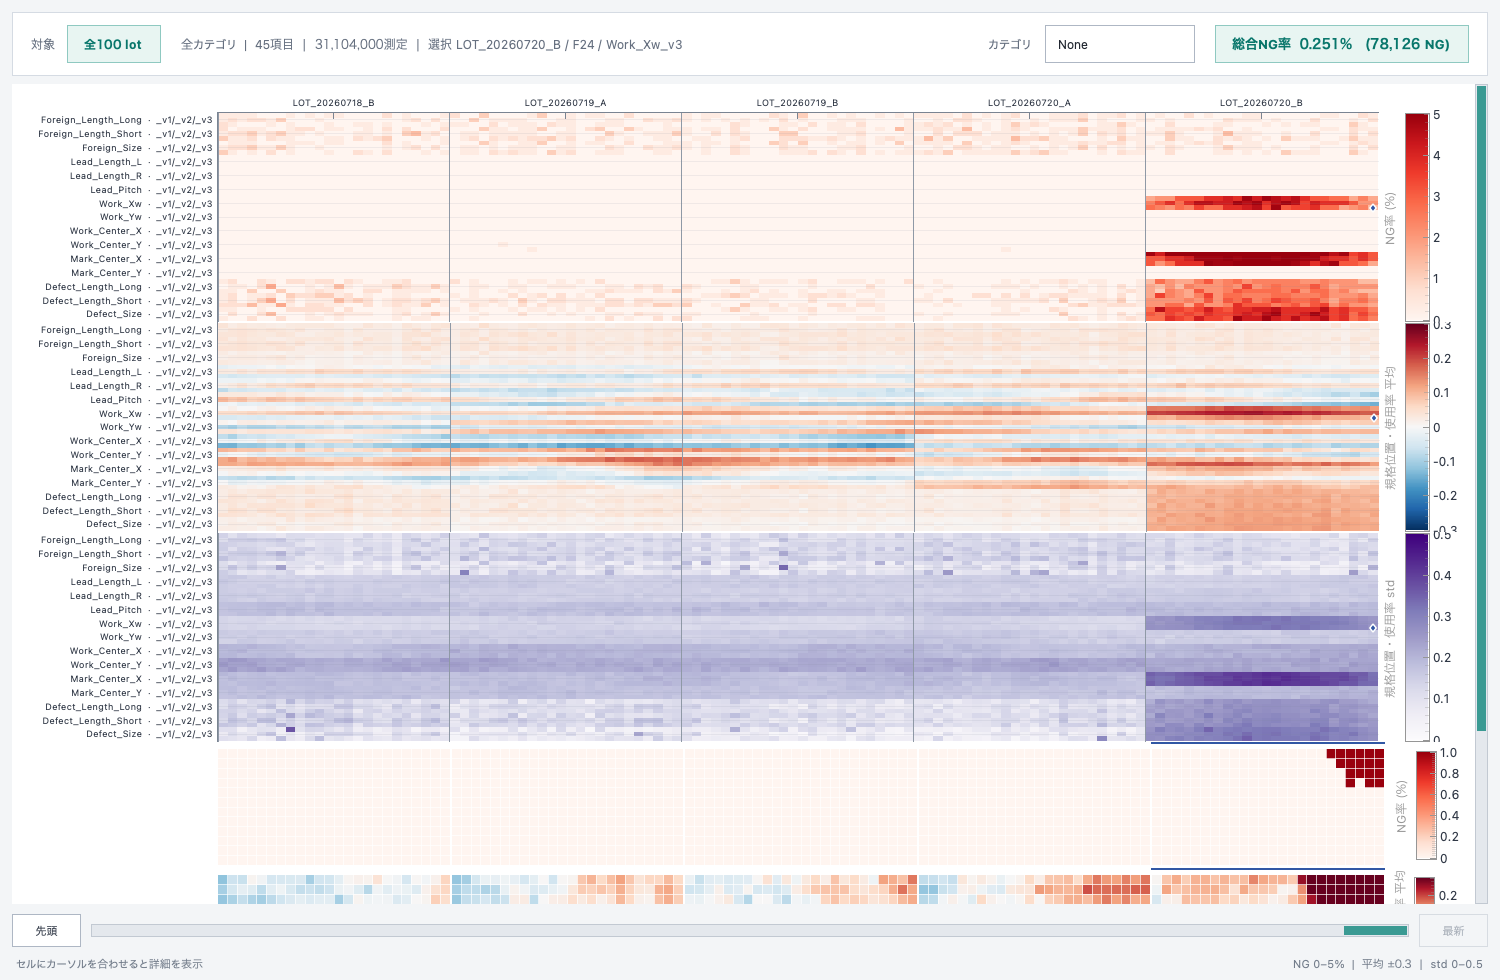
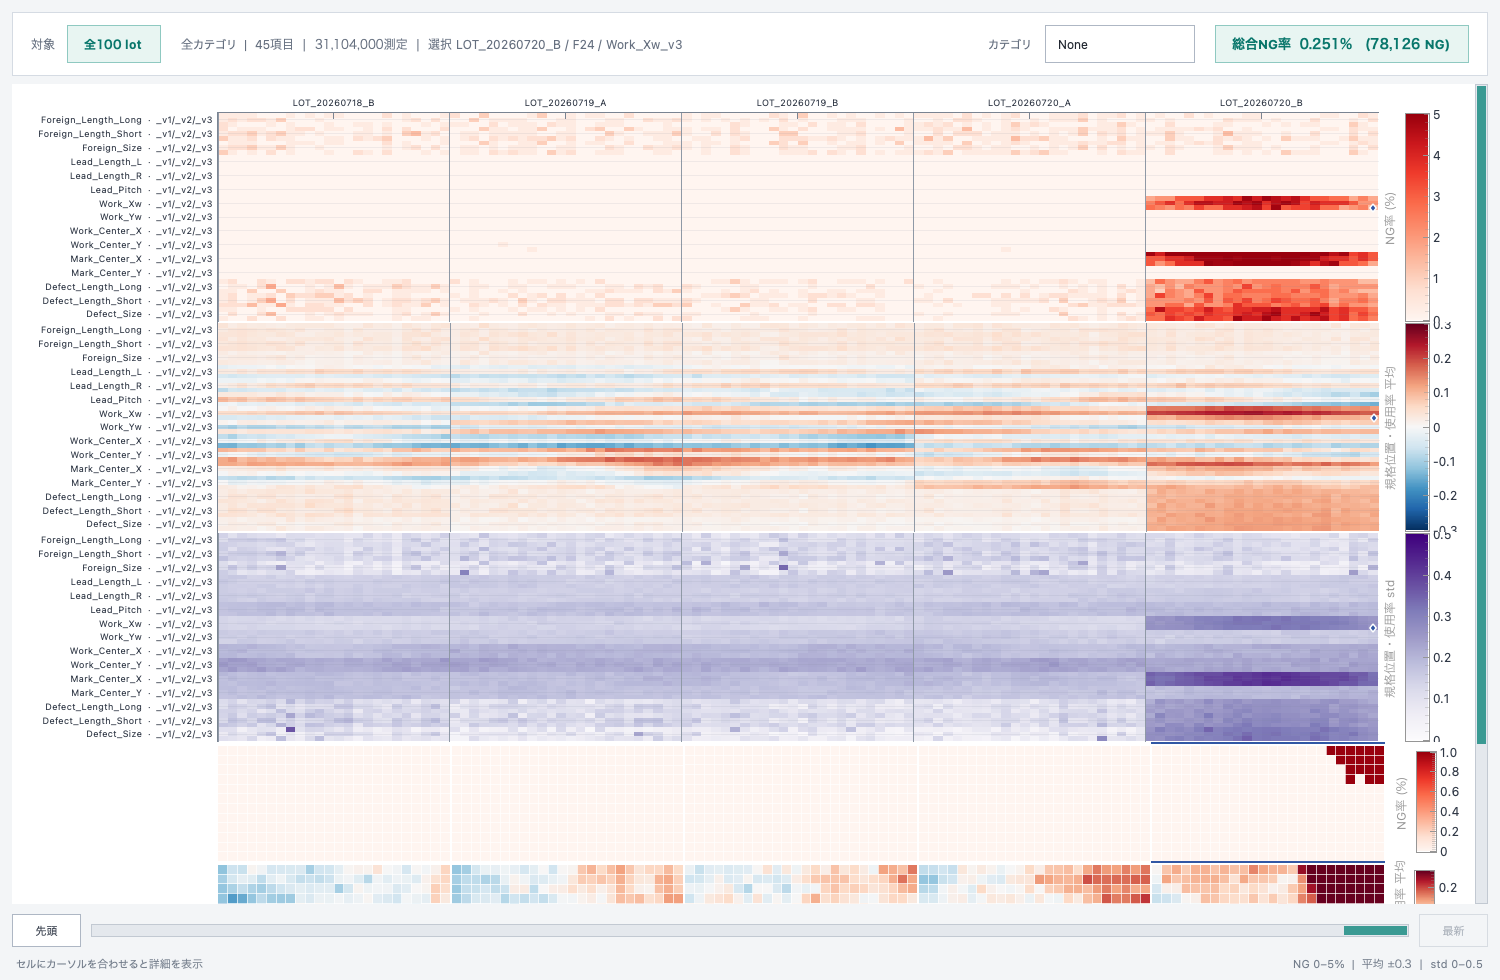
📝

diff --git a/src/analysis/frame_map.py b/src/analysis/frame_map.py
@@ -19,6 +19,11 @@ from src.standardized.quality_data import QualityRepository
 POSITION_X = np.arange(1, 25)
 POSITION_Y = np.arange(1, 13)
 VISIBLE_LOTS = 5
+LEFT_LABEL_WIDTH = 205
+COLOR_BAR_WIDTH = 90
+DEFAULT_ROW_HEIGHT = 126
+MIN_ROW_HEIGHT = 112
+MAX_ROW_HEIGHT = 180
 
 
 @dataclass(frozen=True)
@@ -128,12 +133,19 @@ class FrameMapWidget(QtWidgets.QWidget):
         self.data = build_frame_map_data(repository, lot_numbers)
         self.rows: list[FrameMapRow] = []
         self.selected_colname: str | None = None
+        self._row_height = DEFAULT_ROW_HEIGHT
+        self.setSizePolicy(
+            QtWidgets.QSizePolicy.Policy.Expanding,
+            QtWidgets.QSizePolicy.Policy.Fixed,
+        )
         self._build_ui()
+        self._set_row_height(DEFAULT_ROW_HEIGHT)
 
     def _build_ui(self) -> None:
         layout = QtWidgets.QVBoxLayout(self)
         layout.setContentsMargins(0, 0, 0, 0)
         layout.setSpacing(0)
+        layout.setAlignment(QtCore.Qt.AlignmentFlag.AlignTop)
         for metric, label, colors in MAP_DEFINITIONS:
             row = self._build_row(
                 metric,
@@ -152,13 +164,13 @@ class FrameMapWidget(QtWidgets.QWidget):
         """表示中5 lotのPositionマップ行生成。"""
         widget = QtWidgets.QWidget()
         widget.setObjectName("frameMapRow")
-        widget.setFixedHeight(126)
+        widget.setFixedHeight(self._row_height)
         layout = QtWidgets.QHBoxLayout(widget)
         layout.setContentsMargins(0, 0, 0, 0)
         layout.setSpacing(0)
 
         left_spacer = QtWidgets.QWidget()
-        left_spacer.setFixedWidth(205)
+        left_spacer.setFixedWidth(LEFT_LABEL_WIDTH)
         layout.addWidget(left_spacer)
 
         plot_widgets = []
@@ -185,7 +197,7 @@ class FrameMapWidget(QtWidgets.QWidget):
 
         legend = pg.GraphicsLayoutWidget()
         legend.setBackground("#ffffff")
-        legend.setFixedWidth(90)
+        legend.setFixedWidth(COLOR_BAR_WIDTH)
         color_bar = pg.ColorBarItem(
             values=(0.0, 1.0),
             width=18,
@@ -209,6 +221,24 @@ class FrameMapWidget(QtWidgets.QWidget):
             image_items=image_items,
             color_bar=color_bar,
         )
+
+    def resizeEvent(self, event: object) -> None:
+        """表示幅に合わせたフレームマップ高の更新。"""
+        super().resizeEvent(event)
+        map_width = (
+            self.width() - LEFT_LABEL_WIDTH - COLOR_BAR_WIDTH
+        ) / VISIBLE_LOTS
+        row_height = round(map_width / 2.0) + 2
+        self._set_row_height(
+            max(MIN_ROW_HEIGHT, min(MAX_ROW_HEIGHT, row_height))
+        )
+
+    def _set_row_height(self, height: int) -> None:
+        """24×12セルの縦横比を保つ行高設定。"""
+        self._row_height = height
+        for row in self.rows:
+            row.widget.setFixedHeight(height)
+        self.setFixedHeight(height * len(self.rows))
 
     @staticmethod
     def _add_white_grid(plot_item: pg.PlotItem) -> None:

diff --git a/tests/test_dashboard.py b/tests/test_dashboard.py
@@ -299,3 +299,23 @@ def test_dashboard_window(qtbot, repository: QualityRepository) -> None:
         fq_map.frame_map.rows[0].image_items[0].image,
         fq_map.frame_map.data.ng_rates[0, 95],
     )
+
+    window.resize(1_883, 1_377)
+    qtbot.wait(100)
+    row_rects = [
+        row.widget.geometry()
+        for row in fq_map.frame_map.rows
+    ]
+    assert row_rects[0].top() == 0
+    assert all(
+        current.top() == previous.bottom() + 1
+        for previous, current in zip(row_rects, row_rects[1:])
+    )
+    assert fq_map.frame_map.height() == sum(
+        rectangle.height() for rectangle in row_rects
+    )
+    first_plot = fq_map.frame_map.rows[0].plot_widgets[0]
+    assert first_plot.width() / first_plot.height() == pytest.approx(
+        2.0,
+        abs=0.03,
+    )

diff --git a/src/analysis/fq_map.py b/src/analysis/fq_map.py
@@ -263,6 +263,7 @@ class FqMapWidget(QtWidgets.QWidget):
         plots_layout = QtWidgets.QVBoxLayout(self.plots_container)
         plots_layout.setContentsMargins(0, 0, 0, 0)
         plots_layout.setSpacing(0)
+        plots_layout.setAlignment(QtCore.Qt.AlignmentFlag.AlignTop)
 
         for metric, label, colors in MAP_DEFINITIONS:
             view = self._build_fq_map_view(

diff --git a/concept.md b/concept.md
@@ -160,7 +160,7 @@ FQマップの下には、選択したセルの行に対応するvision別検査
 2. `spec_position`または`spec_usage`の平均（RdBu_r相当）
 3. `spec_position`または`spec_usage`の母標準偏差（Purples相当）
 
-フレームマップは1ロット内の24フレームを製品座標ごとに集計し、FQマップと同じ横スクロール位置の5ロットを並べる。各製品セルの境界には白いグリッド線を表示する。3種類のどのFQマップをクリックしても、ダイヤ型の選択マーカーとフレームマップ対象項目を同期する。選択ロットはフレームマップ上端の細いインディゴ線で控えめに示す。
+フレームマップは1ロット内の24フレームを製品座標ごとに集計し、FQマップと同じ横スクロール位置の5ロットを並べる。各製品セルの境界には白いグリッド線を表示する。ウィンドウ幅に応じて行高を計算し、24×12セルの2:1比率を保ったまま5ロットを隙間なく配置する。3種類のどのFQマップをクリックしても、ダイヤ型の選択マーカーとフレームマップ対象項目を同期する。選択ロットはフレームマップ上端の細いインディゴ線で控えめに示す。
 
 画面はライトテーマとし、3段のFQマップ間にカード枠や区切り余白を設けない。
 
